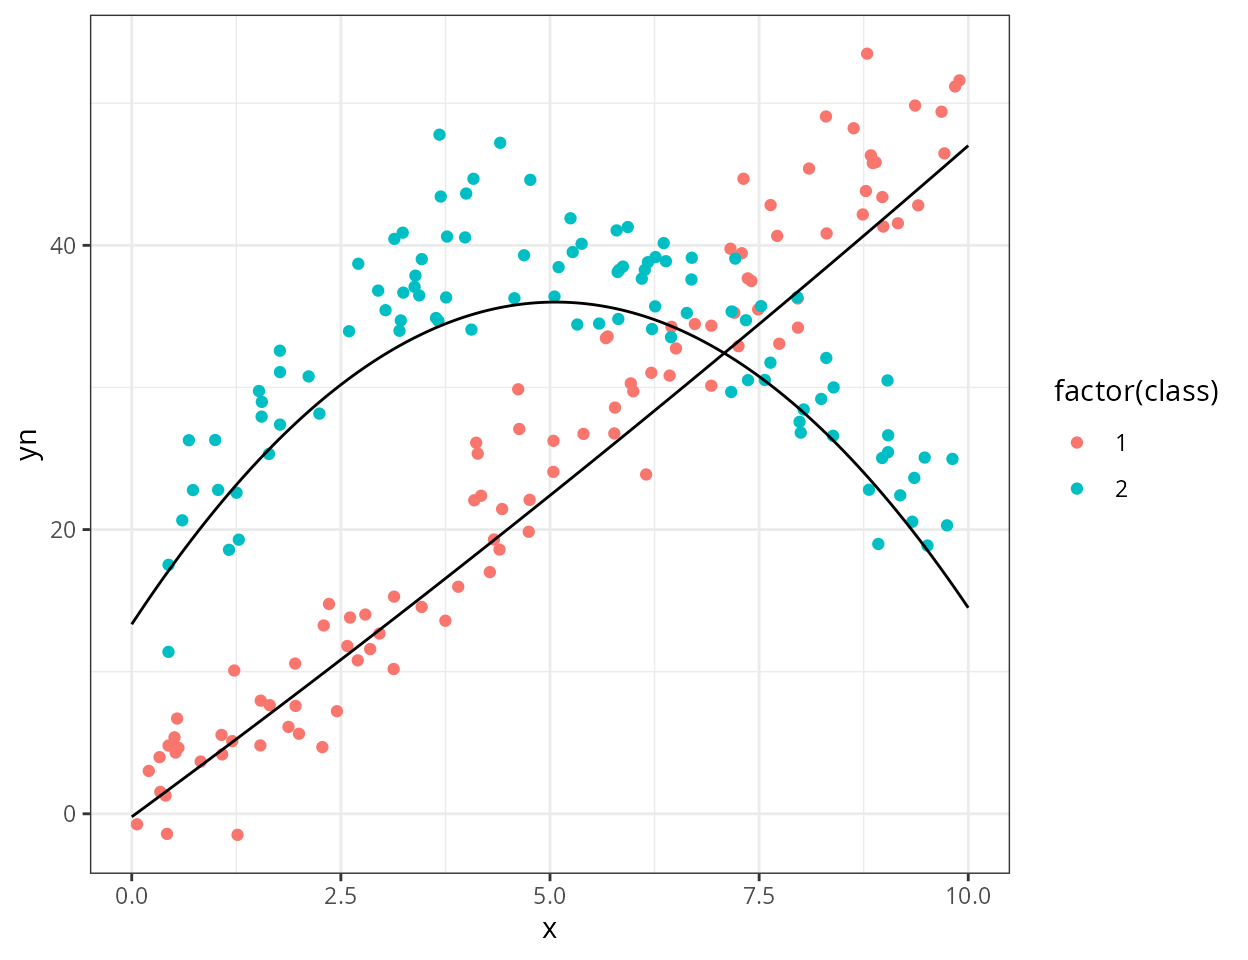
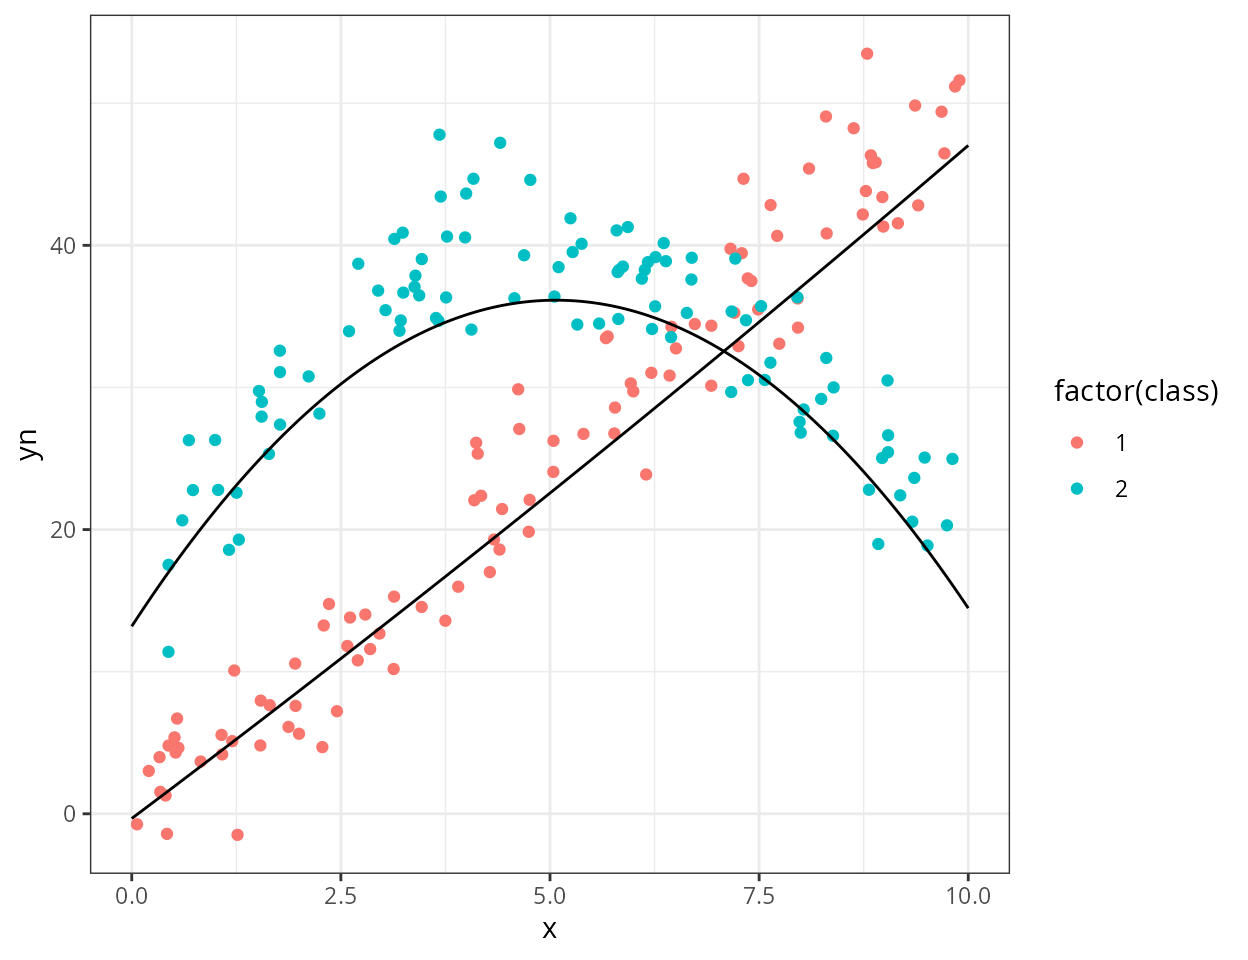
MaJ all vignette article

diff --git a/docs/articles/MoR.html b/docs/articles/MoR.html
@@ -112,12 +112,17 @@
 
     
     
+<p>Loads packages.</p>
 <div class="sourceCode" id="cb1"><pre class="downlit sourceCode r">
-<code class="sourceCode R"><span class="kw"><a href="https://rdrr.io/r/base/library.html" class="external-link">library</a></span><span class="op">(</span><span class="va"><a href="https://comeetie.github.io/greed/" class="external-link">greed</a></span><span class="op">)</span>
+<code class="sourceCode R"><span class="kw"><a href="https://rdrr.io/r/base/library.html" class="external-link">library</a></span><span class="op">(</span><span class="va"><a href="https://github.com/HenrikBengtsson/future" class="external-link">future</a></span><span class="op">)</span> <span class="co"># allows parralel processing in greed()</span>
+<span class="kw"><a href="https://rdrr.io/r/base/library.html" class="external-link">library</a></span><span class="op">(</span><span class="va"><a href="https://comeetie.github.io/greed/" class="external-link">greed</a></span><span class="op">)</span>
+<span class="kw"><a href="https://rdrr.io/r/base/library.html" class="external-link">library</a></span><span class="op">(</span><span class="va"><a href="https://mclust-org.github.io/mclust/" class="external-link">mclust</a></span><span class="op">)</span>
+<span class="kw"><a href="https://rdrr.io/r/base/library.html" class="external-link">library</a></span><span class="op">(</span><span class="va"><a href="https://ggplot2.tidyverse.org" class="external-link">ggplot2</a></span><span class="op">)</span>
 <span class="kw"><a href="https://rdrr.io/r/base/library.html" class="external-link">library</a></span><span class="op">(</span><span class="va"><a href="https://dplyr.tidyverse.org" class="external-link">dplyr</a></span><span class="op">)</span>
 <span class="kw"><a href="https://rdrr.io/r/base/library.html" class="external-link">library</a></span><span class="op">(</span><span class="va"><a href="https://tidyr.tidyverse.org" class="external-link">tidyr</a></span><span class="op">)</span>
-<span class="kw"><a href="https://rdrr.io/r/base/library.html" class="external-link">library</a></span><span class="op">(</span><span class="va"><a href="https://ggplot2.tidyverse.org" class="external-link">ggplot2</a></span><span class="op">)</span>
-<span class="fu"><a href="https://rdrr.io/r/base/Random.html" class="external-link">set.seed</a></span><span class="op">(</span><span class="fl">1234</span><span class="op">)</span></code></pre></div>
+<span class="fu"><a href="https://rdrr.io/r/base/Random.html" class="external-link">set.seed</a></span><span class="op">(</span><span class="fl">2134</span><span class="op">)</span>
+
+<span class="fu">future</span><span class="fu">::</span><span class="fu"><a href="https://rdrr.io/pkg/future/man/plan.html" class="external-link">plan</a></span><span class="op">(</span><span class="st">"multisession"</span>, workers<span class="op">=</span><span class="fl">2</span><span class="op">)</span> <span class="co"># may be increased </span></code></pre></div>
 <div class="section level2">
 <h2 id="mixture-of-regression">Mixture of Regression<a class="anchor" aria-label="anchor" href="#mixture-of-regression"></a>
 </h2>
@@ -147,6 +152,8 @@ Z_i  &amp;\sim \mathcal{M}(1,\pi)\\
 <span class="co">#&gt; ℹ Initializing a population of 20 solutions.</span>
 <span class="co">#&gt; ℹ Generation 1 : best solution with an ICL of -675 and 2 clusters.</span>
 <span class="co">#&gt; ℹ Generation 2 : best solution with an ICL of -675 and 2 clusters.</span>
+<span class="co">#&gt; ℹ Generation 3 : best solution with an ICL of -675 and 2 clusters.</span>
+<span class="co">#&gt; ℹ Generation 4 : best solution with an ICL of -675 and 2 clusters.</span>
 <span class="co">#&gt; ── <span style="font-weight: bold;">Final clustering</span> ──</span>
 <span class="co">#&gt; </span>
 <span class="co">#&gt; ── Clustering with a MOR model 2 clusters and an ICL of -675</span></code></pre></div>
@@ -156,8 +163,8 @@ Z_i  &amp;\sim \mathcal{M}(1,\pi)\\
 <span class="fu"><a href="https://rdrr.io/r/base/table.html" class="external-link">table</a></span><span class="op">(</span><span class="va">cl</span>,<span class="va">NPreg</span><span class="op">$</span><span class="va">class</span><span class="op">)</span>
 <span class="co">#&gt;    </span>
 <span class="co">#&gt; cl   1  2</span>
-<span class="co">#&gt;   1 95  6</span>
-<span class="co">#&gt;   2  5 94</span></code></pre></div>
+<span class="co">#&gt;   1  5 96</span>
+<span class="co">#&gt;   2 95  4</span></code></pre></div>
 <p>Look at the value used for the prior parameters :</p>
 <div class="sourceCode" id="cb5"><pre class="downlit sourceCode r">
 <code class="sourceCode R"><span class="fu"><a href="../reference/prior.html">prior</a></span><span class="op">(</span><span class="va">sol</span><span class="op">)</span>
@@ -188,26 +195,26 @@ Z_i  &amp;\sim \mathcal{M}(1,\pi)\\
 <span class="co">#&gt; </span>
 <span class="co">#&gt; $A</span>
 <span class="co">#&gt; $A$cluster1</span>
-<span class="co">#&gt;                      yn</span>
-<span class="co">#&gt; (Intercept) -0.21218330</span>
-<span class="co">#&gt; x            4.32274809</span>
-<span class="co">#&gt; I(x^2)       0.04000701</span>
+<span class="co">#&gt;                     yn</span>
+<span class="co">#&gt; (Intercept) 13.1922329</span>
+<span class="co">#&gt; x            9.0492430</span>
+<span class="co">#&gt; I(x^2)      -0.8921487</span>
 <span class="co">#&gt; </span>
 <span class="co">#&gt; $A$cluster2</span>
-<span class="co">#&gt;                     yn</span>
-<span class="co">#&gt; (Intercept) 13.3360856</span>
-<span class="co">#&gt; x            8.9506888</span>
-<span class="co">#&gt; I(x^2)      -0.8834575</span>
+<span class="co">#&gt;                      yn</span>
+<span class="co">#&gt; (Intercept) -0.33002899</span>
+<span class="co">#&gt; x            4.42306827</span>
+<span class="co">#&gt; I(x^2)       0.03128846</span>
 <span class="co">#&gt; </span>
 <span class="co">#&gt; </span>
 <span class="co">#&gt; $Sigmak</span>
 <span class="co">#&gt; $Sigmak$cluster1</span>
 <span class="co">#&gt;          yn</span>
-<span class="co">#&gt; yn 11.03863</span>
+<span class="co">#&gt; yn 11.54822</span>
 <span class="co">#&gt; </span>
 <span class="co">#&gt; $Sigmak$cluster2</span>
 <span class="co">#&gt;          yn</span>
-<span class="co">#&gt; yn 12.08002</span></code></pre></div>
+<span class="co">#&gt; yn 11.45288</span></code></pre></div>
 <p>And plot prediction line of the fitted sub-models:</p>
 <div class="sourceCode" id="cb7"><pre class="downlit sourceCode r">
 <code class="sourceCode R"><span class="va">df.pred</span> <span class="op">=</span> <span class="fu"><a href="https://rdrr.io/r/base/data.frame.html" class="external-link">data.frame</a></span><span class="op">(</span>x<span class="op">=</span><span class="fu"><a href="https://rdrr.io/r/base/seq.html" class="external-link">seq</a></span><span class="op">(</span><span class="fl">0</span>,<span class="fl">10</span>,length.out<span class="op">=</span><span class="fl">200</span><span class="op">)</span><span class="op">)</span>
@@ -241,13 +248,14 @@ Z_i  &amp;\sim \mathcal{M}(1,\pi)\\
 <span class="co">#&gt; ── <span style="font-weight: bold;">Fitting a MOR model</span> ──</span>
 <span class="co">#&gt; </span>
 <span class="co">#&gt; ℹ Initializing a population of 20 solutions.</span>
-<span class="co">#&gt; ℹ Generation 1 : best solution with an ICL of -2275 and 2 clusters.</span>
-<span class="co">#&gt; ℹ Generation 2 : best solution with an ICL of -2258 and 2 clusters.</span>
-<span class="co">#&gt; ℹ Generation 3 : best solution with an ICL of -2258 and 2 clusters.</span>
-<span class="co">#&gt; ℹ Generation 4 : best solution with an ICL of -2258 and 2 clusters.</span>
+<span class="co">#&gt; ℹ Generation 1 : best solution with an ICL of -2353 and 3 clusters.</span>
+<span class="co">#&gt; ℹ Generation 2 : best solution with an ICL of -2333 and 2 clusters.</span>
+<span class="co">#&gt; ℹ Generation 3 : best solution with an ICL of -2330 and 2 clusters.</span>
+<span class="co">#&gt; ℹ Generation 4 : best solution with an ICL of -2330 and 2 clusters.</span>
+<span class="co">#&gt; ℹ Generation 5 : best solution with an ICL of -2330 and 2 clusters.</span>
 <span class="co">#&gt; ── <span style="font-weight: bold;">Final clustering</span> ──</span>
 <span class="co">#&gt; </span>
-<span class="co">#&gt; ── Clustering with a MOR model 2 clusters and an ICL of -2258</span></code></pre></div>
+<span class="co">#&gt; ── Clustering with a MOR model 2 clusters and an ICL of -2330</span></code></pre></div>
 <p>The clustering found has two clusters, if we look at the regression models parameters :</p>
 <div class="sourceCode" id="cb10"><pre class="downlit sourceCode r">
 <code class="sourceCode R"><span class="va">cl</span><span class="op">=</span><span class="fu"><a href="../reference/clustering.html">clustering</a></span><span class="op">(</span><span class="va">sol</span><span class="op">)</span>
@@ -255,25 +263,25 @@ Z_i  &amp;\sim \mathcal{M}(1,\pi)\\
 <span class="va">co</span><span class="op">$</span><span class="va">A</span>
 <span class="co">#&gt; $cluster1</span>
 <span class="co">#&gt;                value_eur</span>
-<span class="co">#&gt; (Intercept)  1.795804364</span>
-<span class="co">#&gt; age         -0.086143390</span>
-<span class="co">#&gt; pace         0.002884386</span>
-<span class="co">#&gt; shooting     0.003075221</span>
-<span class="co">#&gt; dribbling    0.012587728</span>
-<span class="co">#&gt; passing      0.004285631</span>
-<span class="co">#&gt; defending    0.145986296</span>
-<span class="co">#&gt; physic       0.030947183</span>
+<span class="co">#&gt; (Intercept)  2.515030406</span>
+<span class="co">#&gt; age         -0.061436709</span>
+<span class="co">#&gt; pace        -0.002003113</span>
+<span class="co">#&gt; shooting     0.033272270</span>
+<span class="co">#&gt; dribbling    0.098606648</span>
+<span class="co">#&gt; passing      0.013636481</span>
+<span class="co">#&gt; defending    0.006920110</span>
+<span class="co">#&gt; physic       0.033522890</span>
 <span class="co">#&gt; </span>
 <span class="co">#&gt; $cluster2</span>
 <span class="co">#&gt;                value_eur</span>
-<span class="co">#&gt; (Intercept)  2.522683826</span>
-<span class="co">#&gt; age         -0.058276981</span>
-<span class="co">#&gt; pace         0.001125149</span>
-<span class="co">#&gt; shooting     0.034963831</span>
-<span class="co">#&gt; dribbling    0.091116059</span>
-<span class="co">#&gt; passing      0.013704705</span>
-<span class="co">#&gt; defending    0.011006798</span>
-<span class="co">#&gt; physic       0.032607060</span></code></pre></div>
+<span class="co">#&gt; (Intercept)  1.527661604</span>
+<span class="co">#&gt; age         -0.079392366</span>
+<span class="co">#&gt; pace         0.004846036</span>
+<span class="co">#&gt; shooting     0.004133401</span>
+<span class="co">#&gt; dribbling    0.014868677</span>
+<span class="co">#&gt; passing      0.007263064</span>
+<span class="co">#&gt; defending    0.140755154</span>
+<span class="co">#&gt; physic       0.031073446</span></code></pre></div>
 <p>The two regression model extracted are quite different, one has an important weight for the defending ability and the physic. Whereas the player’s value is more influenced by the dribling and shooting capabilities in the other regression model. The clustering seems therefore to have extracted two submarkets one for more defensive players and one for the other players. This can be confirmed by looking at the average position of the players of the two groups on the field:</p>
 <div class="sourceCode" id="cb11"><pre class="downlit sourceCode r">
 <code class="sourceCode R"><span class="fu"><a href="https://rdrr.io/r/utils/data.html" class="external-link">data</a></span><span class="op">(</span><span class="st">"Fifa_positions"</span><span class="op">)</span>

diff --git a/docs/articles/LBM.html b/docs/articles/LBM.html
@@ -5,13 +5,13 @@
 <meta charset="utf-8">
 <meta http-equiv="X-UA-Compatible" content="IE=edge">
 <meta name="viewport" content="width=device-width, initial-scale=1.0">
-<title>Count data clustering with the Mixture of Multinomials model • greed</title>
+<title>Co-clustering binary and count data with the degree-corrected Latent Block Model • greed</title>
 <!-- jquery --><script src="https://cdnjs.cloudflare.com/ajax/libs/jquery/3.4.1/jquery.min.js" integrity="sha256-CSXorXvZcTkaix6Yvo6HppcZGetbYMGWSFlBw8HfCJo=" crossorigin="anonymous"></script><!-- Bootstrap --><link rel="stylesheet" href="https://cdnjs.cloudflare.com/ajax/libs/twitter-bootstrap/3.4.1/css/bootstrap.min.css" integrity="sha256-bZLfwXAP04zRMK2BjiO8iu9pf4FbLqX6zitd+tIvLhE=" crossorigin="anonymous">
 <script src="https://cdnjs.cloudflare.com/ajax/libs/twitter-bootstrap/3.4.1/js/bootstrap.min.js" integrity="sha256-nuL8/2cJ5NDSSwnKD8VqreErSWHtnEP9E7AySL+1ev4=" crossorigin="anonymous"></script><!-- bootstrap-toc --><link rel="stylesheet" href="../bootstrap-toc.css">
 <script src="../bootstrap-toc.js"></script><!-- Font Awesome icons --><link rel="stylesheet" href="https://cdnjs.cloudflare.com/ajax/libs/font-awesome/5.12.1/css/all.min.css" integrity="sha256-mmgLkCYLUQbXn0B1SRqzHar6dCnv9oZFPEC1g1cwlkk=" crossorigin="anonymous">
 <link rel="stylesheet" href="https://cdnjs.cloudflare.com/ajax/libs/font-awesome/5.12.1/css/v4-shims.min.css" integrity="sha256-wZjR52fzng1pJHwx4aV2AO3yyTOXrcDW7jBpJtTwVxw=" crossorigin="anonymous">
 <!-- clipboard.js --><script src="https://cdnjs.cloudflare.com/ajax/libs/clipboard.js/2.0.6/clipboard.min.js" integrity="sha256-inc5kl9MA1hkeYUt+EC3BhlIgyp/2jDIyBLS6k3UxPI=" crossorigin="anonymous"></script><!-- headroom.js --><script src="https://cdnjs.cloudflare.com/ajax/libs/headroom/0.11.0/headroom.min.js" integrity="sha256-AsUX4SJE1+yuDu5+mAVzJbuYNPHj/WroHuZ8Ir/CkE0=" crossorigin="anonymous"></script><script src="https://cdnjs.cloudflare.com/ajax/libs/headroom/0.11.0/jQuery.headroom.min.js" integrity="sha256-ZX/yNShbjqsohH1k95liqY9Gd8uOiE1S4vZc+9KQ1K4=" crossorigin="anonymous"></script><!-- pkgdown --><link href="../pkgdown.css" rel="stylesheet">
-<script src="../pkgdown.js"></script><meta property="og:title" content="Count data clustering with the Mixture of Multinomials model">
+<script src="../pkgdown.js"></script><meta property="og:title" content="Co-clustering binary and count data with the degree-corrected Latent Block Model">
 <meta property="og:description" content="greed">
 <!-- mathjax --><script src="https://cdnjs.cloudflare.com/ajax/libs/mathjax/2.7.5/MathJax.js" integrity="sha256-nvJJv9wWKEm88qvoQl9ekL2J+k/RWIsaSScxxlsrv8k=" crossorigin="anonymous"></script><script src="https://cdnjs.cloudflare.com/ajax/libs/mathjax/2.7.5/config/TeX-AMS-MML_HTMLorMML.js" integrity="sha256-84DKXVJXs0/F8OTMzX4UR909+jtl4G7SPypPavF+GfA=" crossorigin="anonymous"></script><!--[if lt IE 9]>
 <script src="https://oss.maxcdn.com/html5shiv/3.7.3/html5shiv.min.js"></script>
@@ -102,48 +102,31 @@
       </header><div class="row">
   <div class="col-md-9 contents">
     <div class="page-header toc-ignore">
-      <h1 data-toc-skip>Count data clustering with the Mixture of Multinomials model</h1>
+      <h1 data-toc-skip>Co-clustering binary and count data with the degree-corrected Latent Block Model</h1>
                         <h4 data-toc-skip class="author">Etienne Côme &amp; Nicolas Jouvin</h4>
             
       
-      <small class="dont-index">Source: <a href="https://github.com/comeetie/greed/blob/HEAD/vignettes/MoM.Rmd" class="external-link"><code>vignettes/MoM.Rmd</code></a></small>
-      <div class="hidden name"><code>MoM.Rmd</code></div>
+      <small class="dont-index">Source: <a href="https://github.com/comeetie/greed/blob/HEAD/vignettes/LBM.Rmd" class="external-link"><code>vignettes/LBM.Rmd</code></a></small>
+      <div class="hidden name"><code>LBM.Rmd</code></div>
 
     </div>
 
     
     
-<p>Loads packages.</p>
 <div class="sourceCode" id="cb1"><pre class="downlit sourceCode r">
-<code class="sourceCode R"><span class="kw"><a href="https://rdrr.io/r/base/library.html" class="external-link">library</a></span><span class="op">(</span><span class="va"><a href="https://github.com/HenrikBengtsson/future" class="external-link">future</a></span><span class="op">)</span> <span class="co"># allows parralel processing in greed()</span>
-<span class="kw"><a href="https://rdrr.io/r/base/library.html" class="external-link">library</a></span><span class="op">(</span><span class="va"><a href="https://comeetie.github.io/greed/" class="external-link">greed</a></span><span class="op">)</span>
-<span class="kw"><a href="https://rdrr.io/r/base/library.html" class="external-link">library</a></span><span class="op">(</span><span class="va"><a href="https://mclust-org.github.io/mclust/" class="external-link">mclust</a></span><span class="op">)</span>
-<span class="kw"><a href="https://rdrr.io/r/base/library.html" class="external-link">library</a></span><span class="op">(</span><span class="va"><a href="https://ggplot2.tidyverse.org" class="external-link">ggplot2</a></span><span class="op">)</span>
-<span class="fu"><a href="https://rdrr.io/r/base/Random.html" class="external-link">set.seed</a></span><span class="op">(</span><span class="fl">2134</span><span class="op">)</span>
-
-<span class="fu">future</span><span class="fu">::</span><span class="fu"><a href="https://rdrr.io/pkg/future/man/plan.html" class="external-link">plan</a></span><span class="op">(</span><span class="st">"multisession"</span>, workers<span class="op">=</span><span class="fl">2</span><span class="op">)</span> <span class="co"># may be increased </span></code></pre></div>
-<div class="section level2">
-<h2 id="in-construction">In construction<a class="anchor" aria-label="anchor" href="#in-construction"></a>
-</h2>
-<p>Dummy example with 3 variables.</p>
+<code class="sourceCode R"><span class="kw"><a href="https://rdrr.io/r/base/library.html" class="external-link">library</a></span><span class="op">(</span><span class="va"><a href="https://comeetie.github.io/greed/" class="external-link">greed</a></span><span class="op">)</span></code></pre></div>
+<p>Dummy example. Only degree-corrected LBM is available yet.</p>
 <div class="sourceCode" id="cb2"><pre class="downlit sourceCode r">
-<code class="sourceCode R"><span class="fu"><a href="https://rdrr.io/r/utils/help.html" class="external-link">help</a></span><span class="op">(</span><span class="st">"MoM"</span><span class="op">)</span></code></pre></div>
+<code class="sourceCode R"><span class="fu"><a href="https://rdrr.io/r/utils/help.html" class="external-link">help</a></span><span class="op">(</span><span class="st">"DcLbm"</span><span class="op">)</span></code></pre></div>
 <div class="sourceCode" id="cb3"><pre class="downlit sourceCode r">
-<code class="sourceCode R"><span class="va">K</span><span class="op">=</span><span class="fl">2</span>
-<span class="va">mu</span> <span class="op">=</span> <span class="fu"><a href="https://rdrr.io/r/base/matrix.html" class="external-link">matrix</a></span><span class="op">(</span><span class="fu"><a href="https://rdrr.io/r/base/c.html" class="external-link">c</a></span><span class="op">(</span><span class="fl">0.1</span>, <span class="fl">0.7</span>, <span class="fl">0.2</span>, <span class="fl">0.8</span>, <span class="fl">0.1</span>, <span class="fl">0.1</span><span class="op">)</span>, byrow <span class="op">=</span> <span class="cn">T</span>, nrow <span class="op">=</span> <span class="fl">2</span>, ncol <span class="op">=</span> <span class="fl">3</span><span class="op">)</span>
-<span class="va">N</span><span class="op">=</span><span class="fl">500</span>
-<span class="va">simu</span> <span class="op">&lt;-</span> <span class="fu"><a href="../reference/rmm.html">rmm</a></span><span class="op">(</span>N<span class="op">=</span><span class="va">N</span>, pi<span class="op">=</span><span class="fu"><a href="https://rdrr.io/r/base/rep.html" class="external-link">rep</a></span><span class="op">(</span><span class="fl">1</span><span class="op">/</span><span class="va">K</span>, <span class="va">K</span><span class="op">)</span>, mu <span class="op">=</span> <span class="va">mu</span>, lambda <span class="op">=</span> <span class="fu"><a href="https://rdrr.io/r/base/rep.html" class="external-link">rep</a></span><span class="op">(</span><span class="fl">200</span>, <span class="va">N</span><span class="op">)</span><span class="op">)</span>
-<span class="va">model</span> <span class="op">=</span> <span class="fu"><a href="../reference/MoM.html">MoM</a></span><span class="op">(</span>alpha <span class="op">=</span> <span class="fl">1</span>, beta <span class="op">=</span> <span class="fl">1</span><span class="op">)</span>
-<span class="va">sol</span> <span class="op">=</span> <span class="fu"><a href="../reference/greed.html">greed</a></span><span class="op">(</span>X <span class="op">=</span> <span class="va">simu</span><span class="op">$</span><span class="va">x</span>, model<span class="op">=</span><span class="va">model</span>, alg <span class="op">=</span> <span class="fu"><a href="../reference/Hybrid-class.html">Hybrid</a></span><span class="op">(</span><span class="op">)</span><span class="op">)</span>
-<span class="fu"><a href="https://rdrr.io/r/base/table.html" class="external-link">table</a></span><span class="op">(</span><span class="va">simu</span><span class="op">$</span><span class="va">cl</span>, <span class="fu"><a href="../reference/clustering.html">clustering</a></span><span class="op">(</span><span class="va">sol</span><span class="op">)</span><span class="op">)</span></code></pre></div>
-</div>
+<code class="sourceCode R"><span class="va">simu</span> <span class="op">&lt;-</span> <span class="fu"><a href="../reference/rlbm.html">rlbm</a></span><span class="op">(</span><span class="fl">50</span>, <span class="fl">10</span>, <span class="fu"><a href="https://rdrr.io/r/base/rep.html" class="external-link">rep</a></span><span class="op">(</span><span class="fl">1</span> <span class="op">/</span> <span class="fl">5</span>, <span class="fl">5</span><span class="op">)</span>, <span class="fu"><a href="https://rdrr.io/r/base/rep.html" class="external-link">rep</a></span><span class="op">(</span><span class="fl">1</span> <span class="op">/</span> <span class="fl">10</span>, <span class="fl">10</span><span class="op">)</span>, <span class="fu"><a href="https://rdrr.io/r/base/matrix.html" class="external-link">matrix</a></span><span class="op">(</span><span class="fu"><a href="https://rdrr.io/r/stats/Uniform.html" class="external-link">runif</a></span><span class="op">(</span><span class="fl">50</span><span class="op">)</span>, <span class="fl">5</span>, <span class="fl">10</span><span class="op">)</span><span class="op">)</span>
+<span class="va">model</span> <span class="op">=</span> <span class="fu"><a href="../reference/DcLbm.html">DcLbm</a></span><span class="op">(</span>alpha <span class="op">=</span> <span class="fl">1</span><span class="op">)</span>
+<span class="va">sol</span> <span class="op">=</span> <span class="fu"><a href="../reference/greed.html">greed</a></span><span class="op">(</span>X <span class="op">=</span> <span class="va">simu</span><span class="op">$</span><span class="va">x</span>, model<span class="op">=</span><span class="va">model</span>, alg <span class="op">=</span> <span class="fu"><a href="../reference/Hybrid-class.html">Hybrid</a></span><span class="op">(</span><span class="op">)</span><span class="op">)</span></code></pre></div>
   </div>
 
   <div class="col-md-3 hidden-xs hidden-sm" id="pkgdown-sidebar">
 
-        <nav id="toc" data-toggle="toc"><h2 data-toc-skip>Contents</h2>
-    </nav>
-</div>
+      </div>
 
 </div>
 
